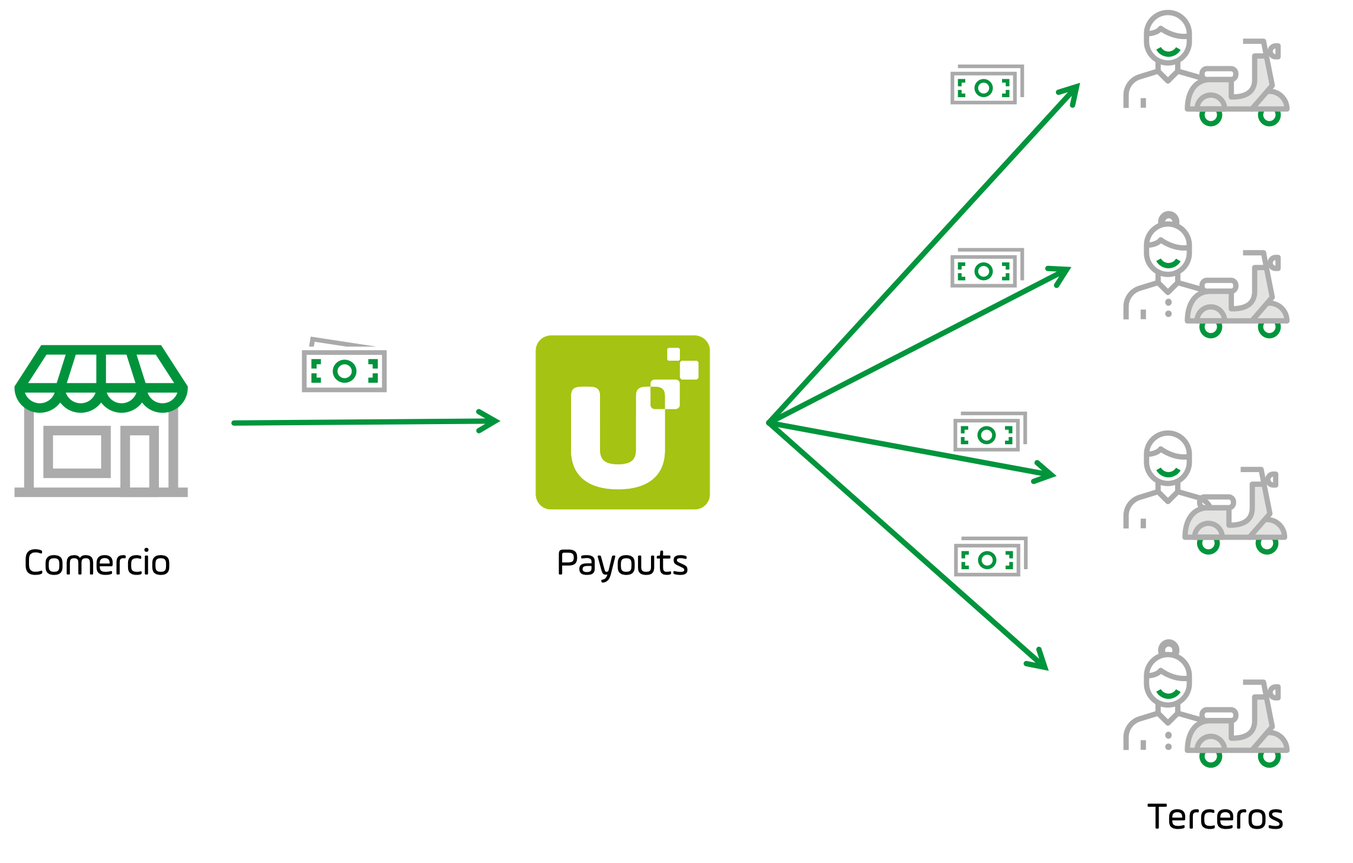
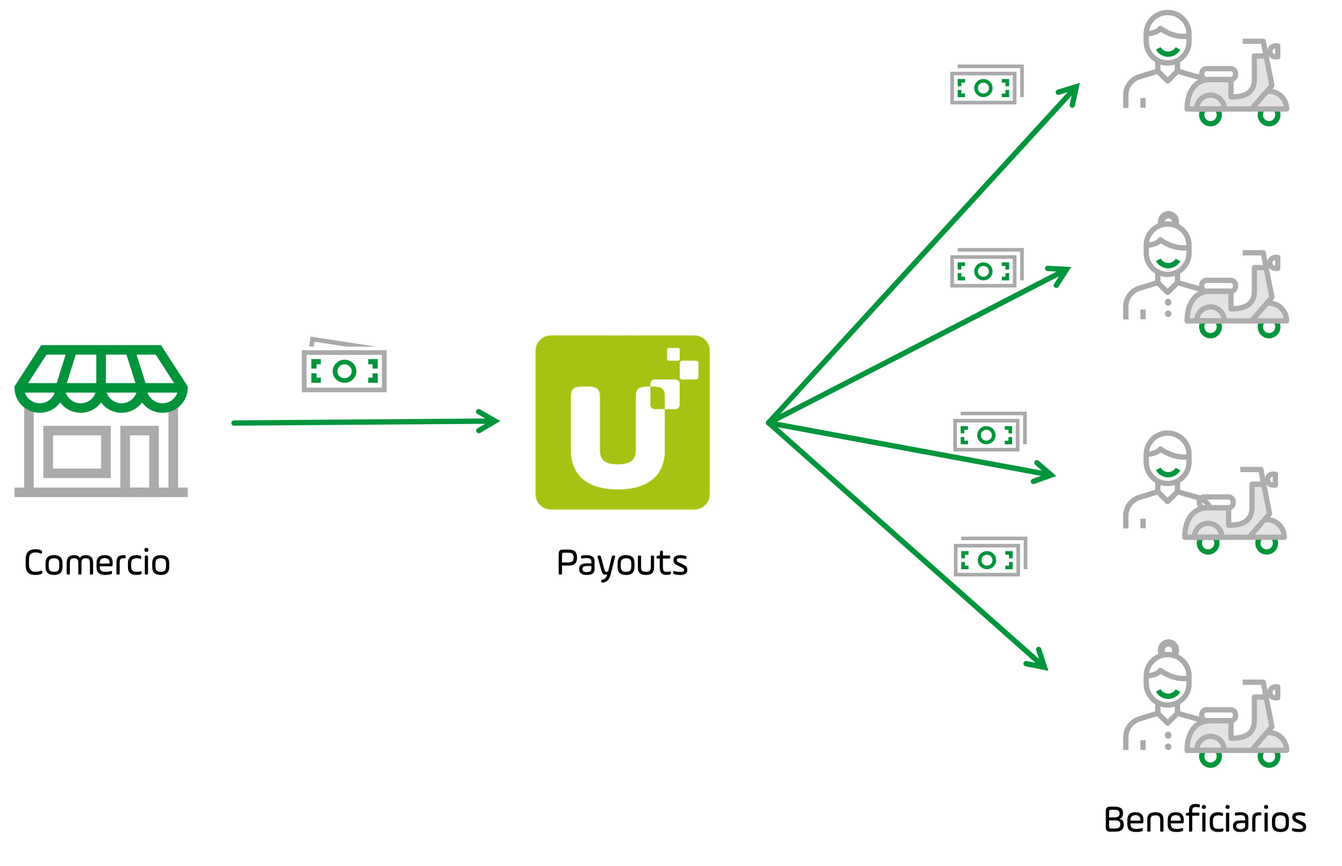
Push payments adjustments

diff --git a/content/en/docs/Services/Payouts.md b/content/en/docs/Services/Payouts.md
@@ -3,40 +3,55 @@ title: "Payouts"
 linkTitle: "Payouts"
 date: 2021-07-16T11:32:55-05:00
 description: >
-  This feature allows you to create multiple and secure third party payouts (users, merchants, providers, customers, etc.) using the funds you have in your PayU Account.
+  Payouts is an API solution that helps you easily send multiple and secure payouts to different types of payees (users, merchants, providers, customers, etc.) and is functionally tailored to LATAM market specifics.
 weight: 70
 ---
 
-{{% alert title="Important" color="warning"%}}
-PayU offers the Payouts service as an integration via API. It is not supported to register Payouts nor Third parties using the PayU module. Currently, Payouts is available in Colombia.
-{{% /alert %}}
-
 Payouts is an integration service available under demand, and its activation depends on a security and risk analysis. For more information or requesting this service, contact your Sales Representative.
 
-## How do Payouts work?
-Through Payouts, you can request many payments to many users easily. You only need to provide the amount to pay along with the information of each third party (such as name, identification, bank information, etc.), and PayU transfers the requested amount after validations.
-
-<img src="/assets/PushPayments/PushPayments.png" width="70%" style="display: block;margin-left: auto;margin-right: auto;"/>
+<img src="/assets/PushPayments/PushPayments.png" width="70%" alt="Concepts"/>
 
 Let’s explain Payouts using an example. A merchant offers products and services available for delivery; this merchant uses PayU as their online payment platform and has an account where they collect the money paid from their customers. This merchant has many couriers to whom, they pay a fixed amount per delivery they made.
 
 Each week, the merchant pays the amount earned to each courier. To do this, they can use Payouts to pay directly from their PayU account instead of managing the payments on their own, in which case, the merchant must transfer the money to their accounts or use funds from other sources.
 
-To request the pay, the merchant sends the list of third parties they want to pay along with the amount of each one, PayU validates these third parties and schedules the payout.
+To request the pay, the merchant sends the list of payees they want to pay along with the amount of each one, PayU validates these payees and schedules the payout.
 
 The amount of each payout plus the processing fee is deducted from your account. Contact your sales representative to know the processing fee to use this service.
 
+## Benefits
+
+* **Leverage regional capabilities**.<br>A complete and easy-to-use API to make payments to any bank in the processing country<sup>\*</sup>.<br><sup>\*</sup>_Available for now in Colombia, with other markets coming soon._
+* **One or multiple payouts**.<br>The API is flexible. You can create one or multiple requests which can be new or existing. There is no restriction for the number of records. 
+* **Save time and costs**.<br>You can save operational costs and time managing all payment operations in just one place.
+* **Payment flexibility**.<br>You can make updates to the payment order any time before it’s sent to the bank.<br>This feature is useful when the payee changes their bank account.
+* **Better manage account funds and balance**.<br>You can cancel payment orders before the payout is sent to the bank. Payouts feature helps you to better manage your account funds and balance. 
+* **Customizable  notifications**.<br>Any changes in the payment order status are updated through our solution. You can customize the update notifications you receive. 
+
+## How do Payouts work?
+Through Payouts, you can send multiple and secure payouts such as fund disbursement to employees, sub-merchants, suppliers or customers, using the funds you have in your PayU Account. 
+
+You only need to provide the amount to pay along with the information of each payee (such as name, identification, bank information, etc.), and PayU transfers the requested amount after validations.
+
+<img src="/assets/PushPayments/PushPaymentsFlow.png" alt="Concepts"/><br>
+
+1. **Payout request**: you send an API request with the list of payees you want to send funds to, along with the amount for each transaction and their payment information. 
+2. **Payee validation**: payees are validated through our solution (sanction screening process) and payouts are scheduled. 
+3. **Funds deduction**: each payout along with the processing fee are deducted from your PayU virtual account.
+4. **Confirmation process**: The bank processes the payment according to [ACH process]{{< ref "#transaction-processing" >}}. You can customize notifications to receive changes in the payment status. 
+
+
 ### Payout states
-Payouts are performed in two main steps: the first step is when you request the payment to a third party. The second one is when the request has been approved and moves to the transfer of the funds.
+Payouts are performed in two main steps: the first step is when you request the payment to a payee. The second one is when the request has been approved and moves to the transfer of the funds.
 
 The transactional procedure of Payouts has the following states.
 
-* **AWAITING SANCTION SCREENING**: this state indicates that the third party to whom the payment will be made is subject to validation of restricted lists and further PayU policies related to risk analysis. If a third party does not pass this validation, the payment is automatically rejected.
-* **AWAITING FOR SENT**: if the third party passes the validation or is not subject to it, this state indicates that the request is ready to be processed. In this state, the communication with the service has not been performed.
+* **AWAITING SANCTION SCREENING**: this state indicates that the payee to whom the payment will be made is subject to validation of restricted lists and further PayU policies related to risk analysis. If a payee does not pass this validation, the payment is automatically rejected.
+* **AWAITING FOR SENT**: if the payee passes the validation or is not subject to it, this state indicates that the request is ready to be processed. In this state, the communication with the service has not been performed.
 * **SENT TO CREATE**: this state indicates that the communication with the service has been completed and the Payout request is in creation process.
 * **CREATED**: this state indicates that the request has been created and has become into a payment order. When the request becomes a payment order, it moves between the states explained in [Payment order states]({{< ref "#payment-order-states" >}}). The next state depends on the result of the payment order process.
 * **REJECTED**: this state indicates that the request has been rejected. A request can be rejected when:
-  - The validation of the third party fails.
+  - The validation of the payee fails.
   - The creation of the payout was failed.
   - You request the cancellation of the Payout request and it has been approved. 
 * **PROCESSING COMPLETED**: this state indicates that the Payout process has been completed.
@@ -46,22 +61,22 @@ The transactional procedure of Payouts has the following states.
 
 The following diagram illustrates the state changes:
 
-<img src="/assets/PushPayments/PushPaymentsStates.png" width="80%" style="display: block;margin-left: auto;margin-right: auto;"/>
+<img src="/assets/PushPayments/PushPaymentsStates.png" width="80%" alt="Concepts"/>
 
 ### Payment order states
 Once the Payout has been approved, it is transformed into a payment order. The following are the states of a payment order.
 
-* **REQUEST_BY_THE_MERCHANT**: this is the initial state of the transaction, once you send the list of third parties to be paid and the third parties are approved, the transaction takes this state.
+* **REQUEST_BY_THE_MERCHANT**: this is the initial state of the transaction, once you send the list of payees to be paid and they are approved, the transaction takes this state.
 * **IN_VALIDATION**: due to PayU policies, each payment may be subject to validation. This state indicates that your request must be reviewed under our internal policies. If the validation fails, the payment which didn't meet the policies is rejected.
 * **IN_PAYU_PROCESS**: this state indicates that PayU has started the process payment.
-* **AWAITING_BANK_SENT**: this state indicates that PayU has started the transfer of the amount to the third party.
-* **IN_BANKING_PROCESS**: this state indicates that the payment is being processed in the third party's bank account. At this point you cannot cancel the request nor update it.
-* **CONFIRMED_BY_THE_BANK**: this state indicates that the third party has received the transferred amount.
+* **AWAITING_BANK_SENT**: this state indicates that PayU has started the transfer of the amount to the payee.
+* **IN_BANKING_PROCESS**: this state indicates that the payment is being processed in the payee's bank account. At this point you cannot cancel the request nor update it.
+* **CONFIRMED_BY_THE_BANK**: this state indicates that the payee has received the transferred amount.
 * **REJECTED**: this state indicates that the transaction has been rejected either by PayU (due to policy breach) or the Bank (due to errors in the bank information).
 
 The following diagram illustrates the state changes:
 
-<img src="/assets/PushPayments/PushPaymentsSteps.png" width="60%" style="display: block;margin-left: auto;margin-right: auto;"/>
+<img src="/assets/PushPayments/PushPaymentsSteps.png" width="60%" alt="Concepts"/>
 
 ### Transaction validation
 Every Payout request is validated to verify that the person who will receive the money is not included in restricted lists. This validation may take up to 24 hours which may delay the payment procedure.
@@ -74,10 +89,10 @@ If a person does not approve the validation, the Payout is not performed and you
 Take into account the following considerations:
 
 * Payouts is not a service included by default. You must request it and sign an annex to the contract to agree the fee and further conditions. Contact your Key Account Manager to contract this service.
-* Merchants are responsible for the integrity and the correctness of the third-party data. PayU does not validate that the data provided by the merchant is complete and correct. Furthermore, the update of data must be requested by the merchants.<br>PayU is not responsible for unsuccessful transactions due to wrong data.
-* Payouts allows local payments only. The merchant may be international (under security and risk analysis) but they can only request payouts using the funds collected in the processing country.<br>For example, if the merchant _ABC_ processes in Colombia and Peru, they can request payouts to third parties in Colombia using the funds collected in Colombia; they cannot request payouts to third parties in Peru using the funds collected in Colombia.
+* Merchants are responsible for the integrity and the correctness of the payee's data. PayU does not validate that the data provided by the merchant is complete and correct. Furthermore, the update of data must be requested by the merchants.<br>PayU is not responsible for unsuccessful transactions due to wrong data.
+* Payouts allows local payments only. The merchant may be international (under security and risk analysis) but they can only request payouts using the funds collected in the processing country.<br>For example, if the merchant _ABC_ processes in Colombia and Peru, they can request payouts to payees in Colombia using the funds collected in Colombia; they cannot request payouts to payees in Peru using the funds collected in Colombia.
 * Once the payout is created, it takes the regular flow in PayU. This means that you can see the payout created in your PayU module. 
-* The merchant must prove the relationship between them and their third parties to guarantee that the transaction is legit.
+* The merchant must prove the relationship between them and their payees to guarantee that the transaction is legit.
 <!-- * For Gambling commerces, Payouts cannot be used to make refunds. Therefore, it is necessary to guarantee that the commerce is paying a prize. -->
 
 ## Transaction processing
@@ -104,8 +119,8 @@ When using Payouts, you can create a WebHook to configure notifications on statu
 
 You can configure a WebHook for one or more of the following events:
 * **Transfer creation**: sends a notification when a payout request is created.
-* **Transfer update**: sends a notification when the sanction screening validation rejects the third party.
-* **Validation result**: sends a notification when the third party has approved the sanction screening validation and when the transfer has been rejected by the bank.
+* **Transfer update**: sends a notification when the sanction screening validation rejects the payee.
+* **Validation result**: sends a notification when the payee has approved the sanction screening validation and when the transfer has been rejected by the bank.
 
 To learn how to create WebHooks, refer to [this article]({{< ref "payouts-api.md#create-or-update-a-webhook" >}}).
 
@@ -116,18 +131,18 @@ The following variables are sent to the WebHook when any of the events explained
 |---------------------------|--------------|-----------------------------------------------------------------------|
 | `pushPaymentId`           | Alphanumeric | Id of the payout created.                                             |
 | `creationDate`            | Numeric      | Date when the payout was created.<br>This date is in milliseconds.    |
-| `value`                   | Numeric      | Amount requested to be transferred to the third party.                |
+| `value`                   | Numeric      | Amount requested to be transferred to the payee.                |
 | `currency`                | Alphanumeric | Currency of the amount requested.                                     |
 | `state`                   | Alphanumeric | Current [Payout state]({{< ref"#payout-states" >}}).                  |
 | `status`                  | Alphanumeric | Current [Payment order state]({{< ref"#payment-order-states" >}}).    | 
 | `errorCode`               | Alphanumeric | Error generated after the sanction screening validation.              |
 | `errorMessage`            | Alphanumeric | Error message generated after the sanction screening validation.      |
-| `supplierBankAccountId`   | Alphanumeric | Id of the third party's bank account generated by the payout request. |
-| `fullName`                | Alphanumeric | Name of the third party of the payout.                                |
-| `documentNumber`          | Numeric      | Document number of the third party of the payout.                     |
-| `country`                 | Alphanumeric | Country of the third party of the payout.                             |
+| `supplierBankAccountId`   | Alphanumeric | Id of the payee's bank account generated by the payout request. |
+| `fullName`                | Alphanumeric | Name of the payee of the payout.                                |
+| `documentNumber`          | Numeric      | Document number of the payee of the payout.                     |
+| `country`                 | Alphanumeric | Country of the payee of the payout.                             |
 | `validationState`         | Alphanumeric | Result of the validation performed by PayU.                           |
-| `dateOfTheNextValidation` | Numeric      | Date when the third party will be validated by sanction screening.<br>This date is in milliseconds. |
+| `dateOfTheNextValidation` | Numeric      | Date when the payee will be validated by sanction screening.<br>This date is in milliseconds. |
 
 ## What's next?
 The integration with this feature fo is performed using [API integrations]({{< ref "payouts-api.html" >}}).

diff --git a/content/en/docs/Integrations/API integration/Payouts-API.md b/content/en/docs/Integrations/API integration/Payouts-API.md
@@ -3,7 +3,7 @@ title: "Payouts API"
 linkTitle: "Payouts API"
 date: 2021-08-09T14:58:45-05:00
 description: >
-  This feature allows you to create multiple and secure payments for third parties (users, merchants, providers, customers, etc.) using the funds you have in your PayU Account.
+  This feature allows you to create multiple and secure payments for payees (users, merchants, providers, customers, etc.) using the funds you have in your PayU Account.
 weight: 60
 tags: ["subtopic"]
 ---
@@ -75,7 +75,7 @@ https://{env-api}.payulatam.com/push-payment/v1.0/authenticate?apiKey={apiKey}&a
 {{< /tabs >}}
 
 ## Request payout
-This method lets you create one or multiple Payouts request for third parties which can be new or existing. As soon as you create the request, this moves along the [available states]({{< ref "payouts.html#payout-states" >}}) for Payouts.
+This method lets you create one or multiple Payouts request for payees which can be new or existing. As soon as you create the request, this moves along the [available states]({{< ref "payouts.html#payout-states" >}}) for Payouts.
 
 {{% alert title="Note" color="info"%}}
 
@@ -112,19 +112,19 @@ Both parameters can be found in your PayU module.
 |---|---|---|---|:-:|
 | transfers | List | | List of the transfers you want to create. | Yes |
 | transfers[n] > value | Numeric | | Amount to be transfer from yor funds. The currency of this amount is the one configured in your PayU account | Yes |
-| transfers[n] > bankAccount | | | This object has the information of the bank account of the third party that will receive the payment.<br>The third party can be existing or new. | Yes |
-| transfers[n] > bankAccount > id | Alphanumeric | 36 | Identifier of the Bank account of the third-party.<br>Send this parameter when you want to request a Payout for an existing third party. | No | 
-| transfers[n] > bankAccount > supplierType | Alphanumeric | Min:11 Max:16 | Relationship type between you and your third party. You can choose one of the following values: <ul style="margin-bottom: initial;"><li>`SUBMERCHANT`: select this relation if the third party is a related merchant.</li><li>`RELATED_PROVIDER`: select this relation if the third party is a provider</li><li>`RELATED_THIRD_PARTY`: select this type if the third party is a customer, an employee, or any user of your services.</li></ul><br>This parameter is mandatory when you are creating a payout request for a new third party. | No |
-| transfers[n] > bankAccount > accountNumber | Alphanumeric | Max:17 | Bank account number of the third party.<br>This parameter is mandatory when you are creating a payout request for a new third party. | No |
-| transfers[n] > bankAccount > bankCode | Numeric | Min:3 Max:4 | Code of the bank who issued the account of the third party. [See Bank codes]({{< ref "response-codes-and-variables.html#banks-for-payouts" >}}). | No |
-| transfers[n] > bankAccount > accountType | Alphanumeric | 2 | Set `CC` for Current account and `CA` for Saving account or `Nequi`<sup>\*</sup>.<br>This parameter is mandatory when you are creating a payout request for a new third party.<br><sup>\*</sup>_Nequi is available in Colombia_. | No |
-| transfers[n] > bankAccount > country | Alphanumeric | 2 | Country of the bank account in format ISO 3166 Alpha-2.<br>This parameter is mandatory when you are creating a payout request for a new third party. | No |
-| transfers[n] > bankAccount > documentNumber | Numeric | 50 | Identification number of the third party. If the `documentType` is `NIT`, send the check digit.<br>This parameter is mandatory when you are creating a payout request for a new third party. | No |
-| transfers[n] > bankAccount > documentType | Alphanumeric | 2 | Identification type of the third party. [See Document types]({{< ref "response-codes-and-variables.html#document-types" >}}).<br>This parameter is mandatory when you are creating a payout request for a new third party. | No |
-| transfers[n] > bankAccount > expeditionDate | Alphanumeric | 10 | Expedition date of the identity document of the third party. Format `YYYY/MM/DD`. For legal person, send any valid date.<br>This parameter is mandatory when you are creating a payout request for a new third party. | No |
-| transfers[n] > bankAccount > fullName | Alphanumeric |  | Full name of the third party.<br>This parameter is mandatory when you are creating a payout request for a new third party. | No |
-| transfers[n] > bankAccount > birthDate | Alphanumeric | 10 | Birth date of the third party. Format `YYYY/MM/DD`. For legal person, send any valid date.<br>This parameter is mandatory when you are creating a payout request for a new third party. | No |
-| transfers[n] > bankAccount > state| Alphanumeric |  | State of the Bank account. Set `ACTIVE` when you are creating a new third party. | No |
+| transfers[n] > bankAccount | | | This object has the information of the bank account of the payee that will receive the payment.<br>The payee can be existing or new. | Yes |
+| transfers[n] > bankAccount > id | Alphanumeric | 36 | Identifier of the Bank account of the third-party.<br>Send this parameter when you want to request a Payout for an existing payee. | No | 
+| transfers[n] > bankAccount > supplierType | Alphanumeric | Min:11 Max:16 | Relationship type between you and your payee. You can choose one of the following values: <ul style="margin-bottom: initial;"><li>`SUBMERCHANT`: select this relation if the payee is a related merchant.</li><li>`RELATED_PROVIDER`: select this relation if the payee is a provider</li><li>`RELATED_THIRD_PARTY`: select this type if the payee is a customer, an employee, or any user of your services.</li></ul><br>This parameter is mandatory when you are creating a payout request for a new payee. | No |
+| transfers[n] > bankAccount > accountNumber | Alphanumeric | Max:17 | Bank account number of the payee.<br>This parameter is mandatory when you are creating a payout request for a new payee. | No |
+| transfers[n] > bankAccount > bankCode | Numeric | Min:3 Max:4 | Code of the bank who issued the account of the payee. [See Bank codes]({{< ref "response-codes-and-variables.html#banks-for-payouts" >}}). | No |
+| transfers[n] > bankAccount > accountType | Alphanumeric | 2 | Set `CC` for Current account and `CA` for Saving account or `Nequi`<sup>\*</sup>.<br>This parameter is mandatory when you are creating a payout request for a new payee.<br><sup>\*</sup>_Nequi is available in Colombia_. | No |
+| transfers[n] > bankAccount > country | Alphanumeric | 2 | Country of the bank account in format ISO 3166 Alpha-2.<br>This parameter is mandatory when you are creating a payout request for a new payee. | No |
+| transfers[n] > bankAccount > documentNumber | Numeric | 50 | Identification number of the payee. If the `documentType` is `NIT`, send the check digit.<br>This parameter is mandatory when you are creating a payout request for a new payee. | No |
+| transfers[n] > bankAccount > documentType | Alphanumeric | 2 | Identification type of the payee. [See Document types]({{< ref "response-codes-and-variables.html#document-types" >}}).<br>This parameter is mandatory when you are creating a payout request for a new payee. | No |
+| transfers[n] > bankAccount > expeditionDate | Alphanumeric | 10 | Expedition date of the identity document of the payee. Format `YYYY/MM/DD`. For legal person, send any valid date.<br>This parameter is mandatory when you are creating a payout request for a new payee. | No |
+| transfers[n] > bankAccount > fullName | Alphanumeric |  | Full name of the payee.<br>This parameter is mandatory when you are creating a payout request for a new payee. | No |
+| transfers[n] > bankAccount > birthDate | Alphanumeric | 10 | Birth date of the payee. Format `YYYY/MM/DD`. For legal person, send any valid date.<br>This parameter is mandatory when you are creating a payout request for a new payee. | No |
+| transfers[n] > bankAccount > state| Alphanumeric |  | State of the Bank account. Set `ACTIVE` when you are creating a new payee. | No |
 | transfers[n] > bankAccount > merchantId | Numeric | | Identifier of your commerce in PayU. | No |
 | transfers[n] > description | Alphanumeric | | Additional information of the payout. | No |
 <!--additionalData-->
@@ -147,17 +147,17 @@ Both parameters can be found in your PayU module.
 | successfulItems[n] > bankAccount | | | This object has the information of the bank account that will receive the payment. |
 | successfulItems[n] > bankAccount > processingStatus | Alphanumeric | 7 | Bank account registration status. For successful registrations, the value is ´SUCCESS´. |
 | successfulItems[n] > bankAccount > id | Alphanumeric | 36 | Identifier of the registered Bank account. |
-| successfulItems[n] > bankAccount > supplierType | Alphanumeric | Min:11 Max:16 | Relationship type selected for the third party. |
-| successfulItems[n] > bankAccount > accountNumber | Alphanumeric | Max:17 | Bank account number of the third party. |
-| successfulItems[n] > bankAccount > bankCode | Numeric | Min:3 Max:4 | Code of the bank who issued the account of the third party. [See Bank codes]({{< ref "response-codes-and-variables.html#banks-for-payouts" >}}). |
-| successfulItems[n] > bankAccount > bankName | Alphanumeric |  | Bank name of the third party. |
-| successfulItems[n] > bankAccount > accountType | Alphanumeric | 2 | Account type of the of the third party. |
+| successfulItems[n] > bankAccount > supplierType | Alphanumeric | Min:11 Max:16 | Relationship type selected for the payee. |
+| successfulItems[n] > bankAccount > accountNumber | Alphanumeric | Max:17 | Bank account number of the payee. |
+| successfulItems[n] > bankAccount > bankCode | Numeric | Min:3 Max:4 | Code of the bank who issued the account of the payee. [See Bank codes]({{< ref "response-codes-and-variables.html#banks-for-payouts" >}}). |
+| successfulItems[n] > bankAccount > bankName | Alphanumeric |  | Bank name of the payee. |
+| successfulItems[n] > bankAccount > accountType | Alphanumeric | 2 | Account type of the of the payee. |
 | successfulItems[n] > bankAccount > country | Alphanumeric | 2 | Country of the bank account. |
-| successfulItems[n] > bankAccount > documentNumber | Numeric | 50 | Identification number of the third party. |
-| successfulItems[n] > bankAccount > documentType | Alphanumeric | 2 | Identification type of the third party. |
-| successfulItems[n] > bankAccount > expeditionDate | Alphanumeric | 10 | Expedition date of the identity document of the third party. |
-| successfulItems[n] > bankAccount > fullName | Alphanumeric |  | Full name of the third party. |
-| successfulItems[n] > bankAccount > birthDate | Alphanumeric | 10 | Birth date of the third party. |
+| successfulItems[n] > bankAccount > documentNumber | Numeric | 50 | Identification number of the payee. |
+| successfulItems[n] > bankAccount > documentType | Alphanumeric | 2 | Identification type of the payee. |
+| successfulItems[n] > bankAccount > expeditionDate | Alphanumeric | 10 | Expedition date of the identity document of the payee. |
+| successfulItems[n] > bankAccount > fullName | Alphanumeric |  | Full name of the payee. |
+| successfulItems[n] > bankAccount > birthDate | Alphanumeric | 10 | Birth date of the payee. |
 | successfulItems[n] > bankAccount > state| Alphanumeric |  | State of the Bank account. |
 | successfulItems[n] > description | Alphanumeric | | Additional information of the payout. |
 | failedItems | List |  | List of items that failed during processing. |
@@ -171,8 +171,8 @@ Both parameters can be found in your PayU module.
 <br>
 
 The following request example sends three payouts: 
-* The first and the second payout are requested for unregistered third parties. The second one fails because the parameter `bankCode` has an invalid value.
-* The third payout is for a registered third party.
+* The first and the second payout are requested for unregistered payees. The second one fails because the parameter `bankCode` has an invalid value.
+* The third payout is for a registered payee.
 
 {{< tabs tabTotal="1" tabID="2" tabName1="JSON" tabName2="XML" >}}
 {{< tab tabNum="1" >}}
@@ -323,9 +323,9 @@ Response body:
 {{< /tabs >}}
 
 ## Update payout request
-This method lets you request the update of the bank information of a third party on a running payout request. For example, this method is useful to change the bank account number of the third party.
+This method lets you request the update of the bank information of a payee on a running payout request. For example, this method is useful to change the bank account number of the payee.
 
-You can only request the update of the information of a third party for when the Payout status is in `IN_PAYU_PROCESS` or earlier. Refer to [Payout states]({{< ref "payouts.html#payout-states" >}}) for more information. 
+You can only request the update of the information of a payee for when the Payout status is in `IN_PAYU_PROCESS` or earlier. Refer to [Payout states]({{< ref "payouts.html#payout-states" >}}) for more information. 
 
 {{% alert title="Note" color="info"%}}
 
@@ -345,7 +345,7 @@ https://{env-api}.payulatam.com/push-payment/v1.0/supplier-transfers/bank-accoun
 Where:
 * The value for the variable `{env-api}` is `sandbox-web` for testing and `web` for production mode.
 * The value for the variable `{merchantId}` is the identifier of your commerce in PayU.
-* The value for the variable `{bankAccountId}` is the third party Id returned by the [Request payout service]({{< ref "Payouts-API.md#request-payout" >}})
+* The value for the variable `{bankAccountId}` is the payee Id returned by the [Request payout service]({{< ref "Payouts-API.md#request-payout" >}})
 
 ### Variables for request
 
@@ -354,7 +354,7 @@ Where:
 | Field name | Format | Size | Description | Mandatory |
 |---|---|---|---|:-:|
 | id | Alphanumeric | 36 | Identifier of the Bank account of the third-party. | Yes |
-| accountNumber | Alphanumeric | Max:17 | Bank account number of the third party. | Yes |
+| accountNumber | Alphanumeric | Max:17 | Bank account number of the payee. | Yes |
 <!--additionalData-->
 
 The following are the request and response bodies for this method.
@@ -472,8 +472,8 @@ This method lets you create or update a WebHook that allows you to configure a U
 
 You can configure a WebHook for the following events:
 * **Transfer creation**: sends a notification when a payout request is created. To enable these notifications, include the `TRANSFER_CREATION` value in the list parameter `enabledEvents`.
-* **Transfer update**: sends a notification when the sanction screening validation rejects the third party. To enable these notifications, include the `TRANSFER_UPDATE` value in the list parameter `enabledEvents`.
-* **Validation result**: sends a notification when third party has approved the sanction screening validation and when the transfer has been rejected by the bank, include the `VALIDATION_RESULT` value in the list parameter `enabledEvents`.
+* **Transfer update**: sends a notification when the sanction screening validation rejects the payee. To enable these notifications, include the `TRANSFER_UPDATE` value in the list parameter `enabledEvents`.
+* **Validation result**: sends a notification when payee has approved the sanction screening validation and when the transfer has been rejected by the bank, include the `VALIDATION_RESULT` value in the list parameter `enabledEvents`.
 
 [Click here to know the variables in the notifications]({{< ref "payouts.md#variables-in-the-notifications" >}}).
 
